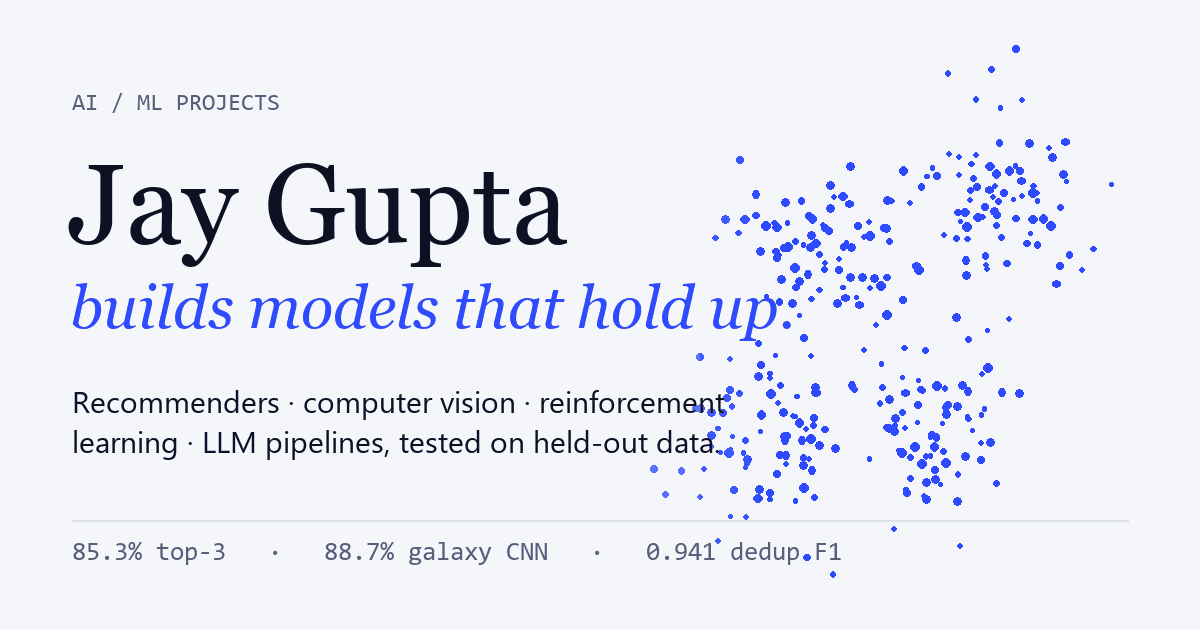
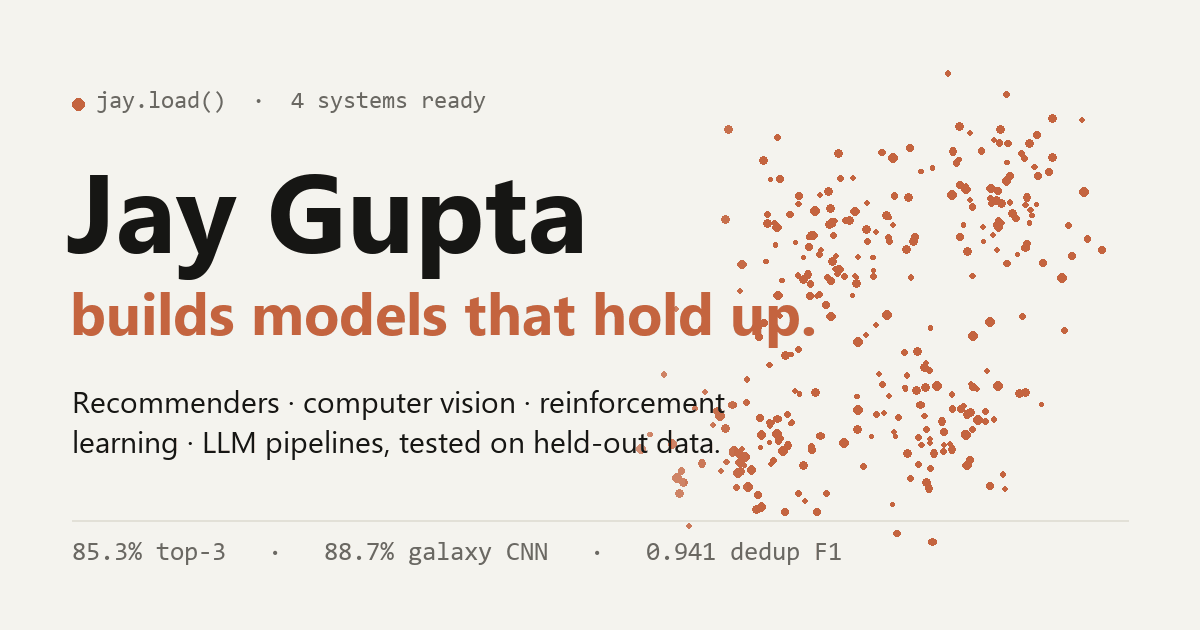
Warm ivory and clay look, Apple-style type, robot status line, comic notes

diff --git a/styles.css b/styles.css
@@ -1,19 +1,22 @@
 /* Layout: a single reading column (72rem) of "model cards" — each project reads like an ML paper's
-   result: claim, method, evaluation figure with caption. Hero is a live embedding cloud. */
+   result: claim, method, evaluation figure with caption. Hero is a live embedding cloud.
+   Look: warm ivory paper and clay accent, tight Apple-style display sans, mono "robot" labels,
+   and one hand-written comic note per project. */
 :root {
-  --paper: #F5F6FA;
-  --panel: #FFFFFF;
-  --ink: #0D1222;
-  --muted: #586079;
-  --line: #DCE0EB;
-  --accent: #2F4BFF;
+  --paper: #F4F3EE;
+  --panel: #FBFAF7;
+  --ink: #161614;
+  --muted: #6A6862;
+  --line: #E2E0D7;
+  --accent: #C4643F;
   --accent-ink: #FFFFFF;
-  --accent-soft: #E7EBFF;
-  --bar: #C3C9DA;
-  --dot: 47, 75, 255;
-  --font-display: "Instrument Serif", "Iowan Old Style", Georgia, serif;
-  --font-body: "Geist", ui-sans-serif, system-ui, -apple-system, "Segoe UI", Roboto, sans-serif;
+  --accent-soft: #F1E4DC;
+  --bar: #D6D3C8;
+  --dot: 196, 100, 63;
+  --font-display: "Inter Tight", -apple-system, BlinkMacSystemFont, "SF Pro Display", "Segoe UI", sans-serif;
+  --font-body: "Geist", -apple-system, BlinkMacSystemFont, "SF Pro Text", "Segoe UI", Roboto, sans-serif;
   --font-mono: "Geist Mono", ui-monospace, "SF Mono", Menlo, Consolas, monospace;
+  --font-hand: "Comic Neue", "Comic Sans MS", "Chalkboard SE", cursive;
   --r: 14px;
   --gut: max(20px, env(safe-area-inset-left, 0px));
   --gut-r: max(20px, env(safe-area-inset-right, 0px));
@@ -21,14 +24,14 @@
 }
 @media (prefers-color-scheme: dark) {
   :root:not([data-theme="light"]) {
-    --paper: #090C16; --panel: #0F1424; --ink: #E8EBF5; --muted: #8C94AE; --line: #1D2438;
-    --accent: #8FA0FF; --accent-ink: #0A0E1D; --accent-soft: #161D3D; --bar: #2B334C; --dot: 143, 160, 255;
+    --paper: #141413; --panel: #1B1B19; --ink: #F0EEE6; --muted: #A19E95; --line: #2C2B27;
+    --accent: #E2875F; --accent-ink: #141413; --accent-soft: #2E2520; --bar: #3A3934; --dot: 226, 135, 95;
     color-scheme: dark;
   }
 }
 :root[data-theme="dark"] {
-  --paper: #090C16; --panel: #0F1424; --ink: #E8EBF5; --muted: #8C94AE; --line: #1D2438;
-  --accent: #8FA0FF; --accent-ink: #0A0E1D; --accent-soft: #161D3D; --bar: #2B334C; --dot: 143, 160, 255;
+  --paper: #141413; --panel: #1B1B19; --ink: #F0EEE6; --muted: #A19E95; --line: #2C2B27;
+  --accent: #E2875F; --accent-ink: #141413; --accent-soft: #2E2520; --bar: #3A3934; --dot: 226, 135, 95;
   color-scheme: dark;
 }
 
@@ -53,7 +56,7 @@ body::before { content: ""; position: fixed; inset: 0 0 auto; height: env(safe-a
 .nav { position: sticky; top: env(safe-area-inset-top, 0px); z-index: 40; background: color-mix(in srgb, var(--paper) 82%, transparent); backdrop-filter: blur(14px); -webkit-backdrop-filter: blur(14px); border-bottom: 1px solid transparent; transition: border-color .3s; }
 .nav.scrolled { border-bottom-color: var(--line); }
 .nav-in { display: flex; align-items: center; gap: 20px; height: 60px; }
-.mono-mark { font: 400 26px/1 var(--font-display); text-decoration: none; letter-spacing: -.02em; }
+.mono-mark { font: 600 26px/1 var(--font-display); text-decoration: none; letter-spacing: -.02em; }
 .nav-links { display: flex; gap: 22px; margin-left: auto; font-size: 15px; }
 .nav-links a { text-decoration: none; color: var(--muted); transition: color .2s; }
 .nav-links a:hover { color: var(--ink); }
@@ -66,7 +69,7 @@ body::before { content: ""; position: fixed; inset: 0 0 auto; height: env(safe-a
 .hero::after { content: ""; position: absolute; inset: 0; pointer-events: none; background: linear-gradient(90deg, var(--paper) 0%, color-mix(in srgb, var(--paper) 70%, transparent) 45%, transparent 75%), linear-gradient(0deg, var(--paper) 0%, transparent 30%); }
 .hero-in, .hero .stats { position: relative; z-index: 1; }
 .hero-in { display: grid; gap: 18px; max-width: 46rem; margin-left: 0; }
-.hero-title { font: 400 clamp(46px, 8.4vw, 104px)/.95 var(--font-display); letter-spacing: -.025em; margin: 6px 0 4px; text-wrap: balance; }
+.hero-title { font: 600 clamp(46px, 8.4vw, 104px)/.95 var(--font-display); letter-spacing: -.025em; margin: 6px 0 4px; text-wrap: balance; }
 .hero-title span { display: block; }
 .hero-title em { display: block; font-style: italic; color: var(--accent); }
 .hero-lede { font-size: clamp(19px, 2.3vw, 23px); line-height: 1.45; margin: 0; max-width: 44ch; font-weight: 500; text-wrap: pretty; }
@@ -80,7 +83,7 @@ body::before { content: ""; position: fixed; inset: 0 0 auto; height: env(safe-a
 .stats { display: grid; grid-template-columns: repeat(4, minmax(0, 1fr)); gap: 0; margin: clamp(48px, 7vw, 88px) 0 0; border-top: 1px solid var(--line); }
 .stat { padding: 18px 18px 0 0; display: grid; gap: 2px; min-width: 0; }
 .stat + .stat { padding-left: 18px; border-left: 1px solid var(--line); }
-.stat dt { font: 400 clamp(34px, 4.6vw, 52px)/1 var(--font-display); font-variant-numeric: tabular-nums; letter-spacing: -.02em; }
+.stat dt { font: 600 clamp(34px, 4.6vw, 52px)/1 var(--font-display); font-variant-numeric: tabular-nums; letter-spacing: -.02em; }
 .stat dd { margin: 0; color: var(--muted); font-size: 14px; line-height: 1.4; }
 @media (max-width: 760px) {
   .stats { grid-template-columns: repeat(2, minmax(0, 1fr)); }
@@ -92,7 +95,7 @@ body::before { content: ""; position: fixed; inset: 0 0 auto; height: env(safe-a
 .sec { padding-block: clamp(72px, 10vw, 128px); }
 .sec-alt { background: var(--panel); border-block: 1px solid var(--line); }
 .sec-head { display: grid; gap: 10px; margin-bottom: 36px; }
-.sec-head h2, .contact h2 { font: 400 clamp(34px, 5vw, 56px)/1.05 var(--font-display); letter-spacing: -.02em; margin: 0; max-width: 20ch; text-wrap: balance; }
+.sec-head h2, .contact h2 { font: 600 clamp(34px, 5vw, 56px)/1.05 var(--font-display); letter-spacing: -.02em; margin: 0; max-width: 20ch; text-wrap: balance; }
 
 .jump { display: flex; gap: 8px; flex-wrap: wrap; margin: -8px 0 40px; }
 .jump a { font: 500 13px/1 var(--font-mono); padding: 9px 13px; border: 1px solid var(--line); border-radius: 999px; text-decoration: none; color: var(--muted); background: var(--panel); transition: color .2s, border-color .2s; }
@@ -103,10 +106,10 @@ body::before { content: ""; position: fixed; inset: 0 0 auto; height: env(safe-a
 .proj { background: var(--panel); border: 1px solid var(--line); border-radius: calc(var(--r) + 6px); padding: clamp(22px, 4vw, 44px); display: grid; gap: 28px; scroll-margin-top: 80px; }
 .proj-top { display: grid; grid-template-columns: minmax(0, 1.25fr) minmax(0, 1fr); gap: clamp(20px, 4vw, 56px); align-items: start; }
 .proj-kicker { font: 500 12.5px/1.3 var(--font-mono); letter-spacing: .06em; text-transform: uppercase; color: var(--accent); margin: 0 0 10px; }
-.proj h3 { font: 400 clamp(36px, 5vw, 58px)/1 var(--font-display); letter-spacing: -.02em; margin: 0 0 14px; }
+.proj h3 { font: 600 clamp(36px, 5vw, 58px)/1 var(--font-display); letter-spacing: -.02em; margin: 0 0 14px; }
 .proj-summary { font-size: clamp(18px, 2vw, 20px); line-height: 1.5; margin: 0; max-width: 40ch; text-wrap: pretty; }
 .proj-metric { border-left: 2px solid var(--accent); padding: 4px 0 4px 18px; align-self: center; }
-.proj-metric b { display: block; font: 400 clamp(56px, 8vw, 92px)/.95 var(--font-display); letter-spacing: -.03em; font-variant-numeric: tabular-nums; color: var(--ink); }
+.proj-metric b { display: block; font: 600 clamp(56px, 8vw, 92px)/.95 var(--font-display); letter-spacing: -.03em; font-variant-numeric: tabular-nums; color: var(--ink); }
 .proj-metric span { color: var(--muted); font-size: 14.5px; }
 
 .proj-body { display: grid; grid-template-columns: minmax(0, 1fr) minmax(0, 1fr); gap: clamp(20px, 4vw, 56px); align-items: start; }
@@ -144,7 +147,7 @@ body::before { content: ""; position: fixed; inset: 0 0 auto; height: env(safe-a
 /* Approach */
 .approach { display: grid; grid-template-columns: repeat(auto-fit, minmax(min(100%, 15rem), 1fr)); gap: 0; border-top: 1px solid var(--line); }
 .rule { padding: 24px 24px 8px 0; display: grid; gap: 8px; align-content: start; }
-.rule h3 { font: 400 26px/1.15 var(--font-display); margin: 0; letter-spacing: -.01em; }
+.rule h3 { font: 600 26px/1.15 var(--font-display); margin: 0; letter-spacing: -.01em; }
 .rule p { margin: 0; color: var(--muted); font-size: 15.5px; }
 
 /* Skills */
@@ -181,3 +184,21 @@ body::before { content: ""; position: fixed; inset: 0 0 auto; height: env(safe-a
   @keyframes rise { from { transform: translateY(14px); opacity: 0; } to { transform: none; opacity: 1; } }
 }
 @media (prefers-reduced-motion: reduce) { html { scroll-behavior: auto; } }
+
+/* Apple-style display tuning: tight tracking, calm second line. */
+.hero-title { letter-spacing: -.045em; line-height: .98; }
+.hero-title em { font-style: normal; color: transparent; background: linear-gradient(90deg, var(--muted), var(--accent)); -webkit-background-clip: text; background-clip: text; }
+.sec-head h2, .contact h2, .proj h3 { letter-spacing: -.035em; }
+.proj-metric b, .stat dt { letter-spacing: -.045em; }
+.mono-mark { letter-spacing: -.05em; font-size: 22px; }
+
+/* Robot touch: a terminal status line with a blinking cursor. */
+.bootline { font: 500 13px/1.4 var(--font-mono); color: var(--muted); margin: 0; display: flex; gap: 8px; align-items: center; flex-wrap: wrap; }
+.bootline .ok { color: var(--accent); }
+.bootline .cur { display: inline-block; width: 8px; height: 15px; background: var(--accent); vertical-align: -2px; }
+@media (prefers-reduced-motion: no-preference) { .bootline .cur { animation: blink 1.1s steps(1) infinite; } @keyframes blink { 50% { opacity: 0; } } }
+
+/* Comic touch: one hand-written margin note per project. */
+.hand { font: 700 19px/1.25 var(--font-hand); color: var(--accent); transform: rotate(-2.5deg); margin: 10px 0 0; max-width: 24ch; display: flex; gap: 6px; }
+.hand::before { content: "↳"; }
+.rule h3 { font-size: 22px; }

diff --git a/index.html b/index.html
@@ -12,13 +12,13 @@
 <meta property="og:image:width" content="1200">
 <meta property="og:image:height" content="630">
 <meta name="twitter:card" content="summary_large_image">
-<meta name="theme-color" content="#F5F6FA" media="(prefers-color-scheme: light)">
-<meta name="theme-color" content="#090C16" media="(prefers-color-scheme: dark)">
+<meta name="theme-color" content="#F4F3EE" media="(prefers-color-scheme: light)">
+<meta name="theme-color" content="#141413" media="(prefers-color-scheme: dark)">
 <link rel="icon" href="/favicon.svg" type="image/svg+xml">
 <link rel="preconnect" href="https://fonts.googleapis.com">
 <link rel="preconnect" href="https://fonts.gstatic.com" crossorigin>
-<link rel="stylesheet" href="https://fonts.googleapis.com/css2?family=Instrument+Serif:ital@0;1&family=Geist:wght@400;500;600&family=Geist+Mono:wght@400;500&display=swap">
-<link rel="stylesheet" href="/styles.css?v=2">
+<link rel="stylesheet" href="https://fonts.googleapis.com/css2?family=Inter+Tight:wght@500;600;700&family=Geist:wght@400;500;600&family=Geist+Mono:wght@400;500&family=Comic+Neue:wght@700&display=swap">
+<link rel="stylesheet" href="/styles.css?v=3">
 <script>try{var t=localStorage.getItem('theme');if(t)document.documentElement.dataset.theme=t}catch(e){}</script>
 </head>
 <body>
@@ -43,6 +43,7 @@
   <section class="hero">
     <canvas id="field" aria-hidden="true"></canvas>
     <div class="wrap hero-in">
+      <p class="bootline" aria-hidden="true"><span class="ok">●</span> jay.load() <span>· 4 systems ready</span><span class="cur"></span></p>
       <p class="eyebrow" data-k="school"></p>
       <h1 class="hero-title"><span data-k="name"></span><em>builds models that hold up.</em></h1>
       <p class="hero-lede" data-k="headline"></p>
@@ -105,6 +106,6 @@
   </div>
 </footer>
 
-<script src="/app.js?v=2" defer></script>
+<script src="/app.js?v=3" defer></script>
 </body>
 </html>

diff --git a/app.js b/app.js
@@ -56,7 +56,7 @@
   $('#projectList').append(...c.projects.map((p) => el('article', { class: 'proj reveal', id: p.id, 'aria-labelledby': p.id + '-h' },
     el('div', { class: 'proj-top' },
       el('div', {}, el('p', { class: 'proj-kicker' }, p.kicker), el('h3', { id: p.id + '-h' }, p.title), el('p', { class: 'proj-summary' }, p.summary)),
-      el('div', { class: 'proj-metric' }, el('b', {}, p.metric.value), el('span', {}, p.metric.label))),
+      el('div', { class: 'proj-metric' }, el('b', {}, p.metric.value), el('span', {}, p.metric.label), p.note ? el('p', { class: 'hand' }, p.note) : null)),
     el('div', { class: 'proj-body' },
       el('div', { class: 'story' },
         el('div', {}, el('h4', {}, 'The problem'), el('p', {}, p.problem)),
